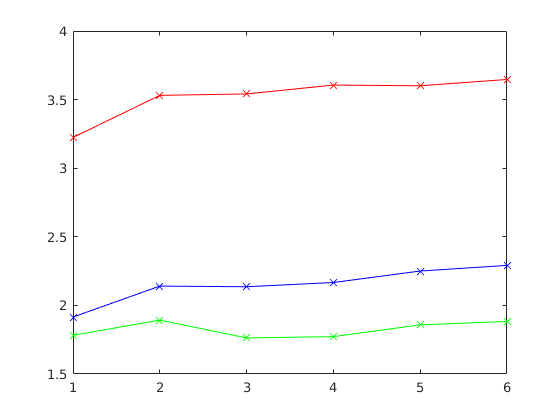
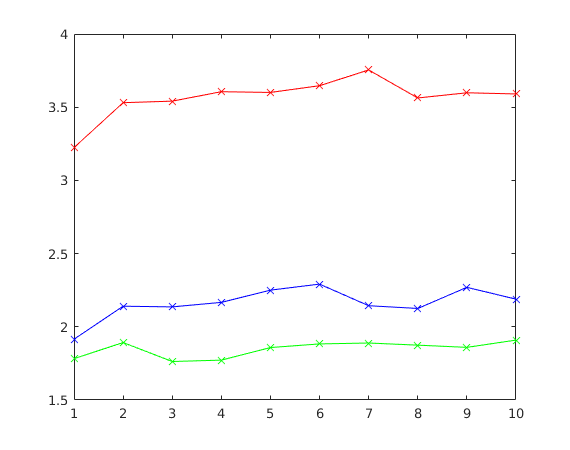
Disparity plot update

Changed region(s): [[0.0911, 0.0619, 0.9411, 0.9286]]

diff --git a/Project/code/disparity_plot.m b/Project/code/disparity_plot.m
@@ -9,7 +9,7 @@ u1r = zeros(1,6);
 u1g = zeros(1,6);
 u1b = zeros(1,6);
 
-for disp = 1:6
+for disp = 1:10
     [mu,var,I] = get_mu_s(patch,disp,2);
     u1 = (mu+var)/2;
     u2 = (-mu+var)/2;
@@ -20,6 +20,6 @@ for disp = 1:6
 end
 
 figure;
-plot(1:6,u1r,'-xr'); hold on;
-plot(1:6,u1g,'-xg');
-plot(1:6,u1b,'-xb'); hold off;
+plot(1:10,u1r,'-xr'); hold on;
+plot(1:10,u1g,'-xg');
+plot(1:10,u1b,'-xb'); hold off;
